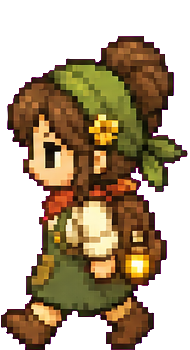
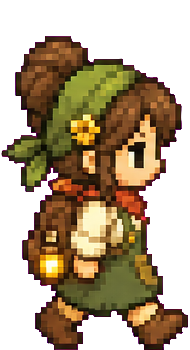
fix: 주인공 8프레임을 원본 슬라이스에서 결정적 재생성 — 좌우 교대 최종 해결
- right_2가 미반전 원본으로 되돌아가 있었음(RMS 0.0으로 확인) → 프레임 1/2가 반대 방향
- 원본 슬라이스 → (우측만 미러) → 190×350 정규화 파이프라인으로 8프레임 일괄 재생성
- 저장본을 기대 픽셀과 RMS 비교로 자동 검증 (눈 판별 배제), ASSET_VER 5

diff --git a/js/engine/assets.js b/js/engine/assets.js
@@ -1,6 +1,6 @@
 // 이미지 로더 + 스프라이트 드로잉 헬퍼
 // ASSET_VER: 에셋 파일을 교체했을 때 올려주면 브라우저 캐시를 무효화함
-export const ASSET_VER = 4;
+export const ASSET_VER = 5;
 const cache = new Map();
 
 export function img(src) {